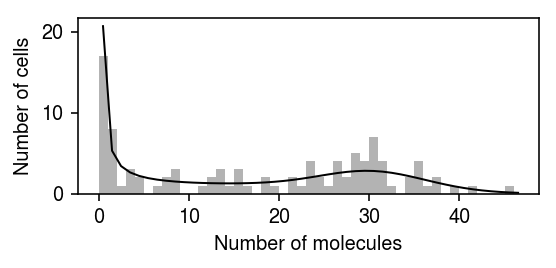
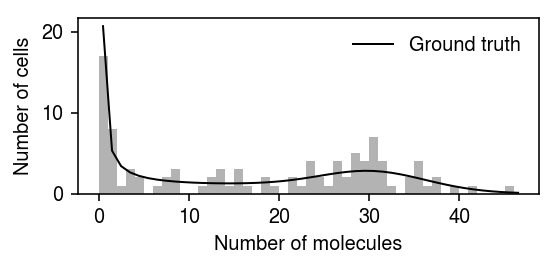
Look at identifiability problem

Changed region(s): [[0.7338, 0.1194, 0.9478, 0.209], [0.6421, 0.1493, 0.7032, 0.1791]]

diff --git a/docs/pois-beta.html b/docs/pois-beta.html
@@ -1,7 +1,7 @@
 <!DOCTYPE html>
 <html lang="en">
 <head>
-<!-- 2020-02-17 Mon 11:53 -->
+<!-- 2020-02-18 Tue 22:02 -->
 <meta charset="utf-8">
 <meta name="viewport" content="width=device-width, initial-scale=1">
 <title>Poisson-Beta model</title>
@@ -265,7 +265,7 @@ for the JavaScript code in this tag.
 <li><a href="#mle">Maximum likelihood estimation</a></li>
 <li><a href="#mcmc">Slice-within-Gibbs sampling</a></li>
 <li><a href="#vi">Variational inference</a></li>
-<li><a href="#org5ff99fe">Simulation</a></li>
+<li><a href="#org0b6fde9">Simulation</a></li>
 </ul>
 </li>
 <li><a href="#results">Results</a>
@@ -275,7 +275,8 @@ for the JavaScript code in this tag.
 <li><a href="#org2a8e2d9">Impact of size factors</a></li>
 <li><a href="#org1a579b3">Log likelihood surface</a></li>
 <li><a href="#org2d20171">Impact of initialization</a></li>
-<li><a href="#orgfb20ae8">Slice-within-Gibbs sampling</a></li>
+<li><a href="#org5f1048c">Slice-within-Gibbs sampling</a></li>
+<li><a href="#orge851dc0">Identifiability</a></li>
 </ul>
 </li>
 </ul>
@@ -353,6 +354,7 @@ initialization on the estimates.
 <span class="org-keyword">import</span> numpy <span class="org-keyword">as</span> np
 <span class="org-keyword">import</span> pandas <span class="org-keyword">as</span> pd
 <span class="org-keyword">import</span> poisbeta
+<span class="org-keyword">import</span> scmodes
 <span class="org-keyword">import</span> scipy.optimize <span class="org-keyword">as</span> so
 <span class="org-keyword">import</span> scipy.special <span class="org-keyword">as</span> sp
 <span class="org-keyword">import</span> scipy.stats <span class="org-keyword">as</span> st
@@ -483,8 +485,8 @@ the marginal likelihood.
 </div>
 </div>
 
-<div id="outline-container-org860fe85" class="outline-3">
-<h3 id="mcmc"><a id="org860fe85"></a>Slice-within-Gibbs sampling</h3>
+<div id="outline-container-org0ed0716" class="outline-3">
+<h3 id="mcmc"><a id="org0ed0716"></a>Slice-within-Gibbs sampling</h3>
 <div class="outline-text-3" id="text-mcmc">
 <p>
 Kim &amp; Marioni 2013 add priors
@@ -738,9 +740,9 @@ update \(\kon, \koff\).
 </div>
 </div>
 
-<div id="outline-container-org5ff99fe" class="outline-3">
-<h3 id="org5ff99fe">Simulation</h3>
-<div class="outline-text-3" id="text-org5ff99fe">
+<div id="outline-container-org0b6fde9" class="outline-3">
+<h3 id="org0b6fde9">Simulation</h3>
+<div class="outline-text-3" id="text-org0b6fde9">
 <p>
 Draw data from the basic model.
 </p>
@@ -794,8 +796,8 @@ Draw data from a model with size factors.
 <h2 id="results"><a id="org8f429f7"></a>Results</h2>
 <div class="outline-text-2" id="text-results">
 </div>
-<div id="outline-container-orged64f38" class="outline-3">
-<h3 id="simulation"><a id="orged64f38"></a>Simulation</h3>
+<div id="outline-container-org2769b38" class="outline-3">
+<h3 id="simulation"><a id="org2769b38"></a>Simulation</h3>
 <div class="outline-text-3" id="text-simulation">
 <p>
 Make sure the implementations work on one example.
@@ -1247,9 +1249,9 @@ plt.tight_layout()
 </div>
 </div>
 </div>
-<div id="outline-container-orgfb20ae8" class="outline-3">
-<h3 id="orgfb20ae8">Slice-within-Gibbs sampling</h3>
-<div class="outline-text-3" id="text-orgfb20ae8">
+<div id="outline-container-org5f1048c" class="outline-3">
+<h3 id="org5f1048c">Slice-within-Gibbs sampling</h3>
+<div class="outline-text-3" id="text-org5f1048c">
 <p>
 First, try to sample from a standard Gaussian using slice sampling.
 </p>
@@ -1285,8 +1287,7 @@ plt.tight_layout()
 </div>
 
 <p>
-Now, use slice-within-Gibbs to sample from the posterior \(p(\kr, \kon,
-   \koff \mid \cdot)\).
+Now, simulate a simple data set.
 </p>
 
 <div class="org-src-container">
@@ -1297,10 +1298,12 @@ Now, use slice-within-Gibbs to sample from the posterior \(p(\kr, \kon,
 
 <div class="org-src-container">
 <pre class="src src-ipython"><span class="org-variable-name">grid</span> = np.arange(x.<span class="org-builtin">max</span>() + 1)
+<span class="org-variable-name">n</span> = x.shape[0] * np.array([poisbeta.mle.poisson_beta_pmf(log_theta, i, 1) <span class="org-keyword">for</span> i <span class="org-keyword">in</span> grid]).ravel()
 plt.clf()
 plt.gcf().set_size_inches(4, 2)
 plt.hist(x, bins=grid, color=<span class="org-string">'0.7'</span>)
-plt.plot(grid + 0.5, x.shape[0] * np.array([poisbeta.mle.poisson_beta_pmf(log_theta, i, 1) <span class="org-keyword">for</span> i <span class="org-keyword">in</span> grid]).ravel(), lw=1, c=<span class="org-string">'k'</span>)
+plt.plot(grid + 0.5, n, lw=1, c=<span class="org-string">'k'</span>, label=<span class="org-string">'Ground truth'</span>)
+plt.legend(frameon=<span class="org-constant">False</span>)
 plt.xlabel(<span class="org-string">'Number of molecules'</span>)
 plt.ylabel(<span class="org-string">'Number of cells'</span>)
 plt.tight_layout()
@@ -1312,6 +1315,11 @@ plt.tight_layout()
 <p><img src="figure/pois-beta.org/slice-sample-ex.png" alt="slice-sample-ex.png">
 </p>
 </div>
+
+<p>
+Use slice-within-Gibbs to sample from the posterior \(p(\kr, \kon, \koff
+   \mid x_1, \ldots, x_n)\).
+</p>
 
 <div class="org-src-container">
 <pre class="src src-ipython"><span class="org-comment-delimiter"># </span><span class="org-comment">Important: Kim &amp; Marioni 2013 use shape/scale parametrization, but write</span>
@@ -1382,11 +1390,148 @@ fig.tight_layout()
 </div>
 </div>
 </div>
+
+<div id="outline-container-orge851dc0" class="outline-3">
+<h3 id="orge851dc0">Identifiability</h3>
+<div class="outline-text-3" id="text-orge851dc0">
+<p>
+Kim and Marioni discuss an identifiability problem with the model. Simulate
+an example data set. Estimate the MLE, and draw samples from the posterior
+of the Poisson-Beta model. Then, fit a Gamma assumption and a unimodal
+assumption on expression variation.
+</p>
+
+<div class="org-src-container">
+<pre class="src src-ipython">x, *<span class="org-variable-name">theta</span> = simulate_pois_beta(n=100, kr=32, kon=1.5, koff=1.5, seed=0)
+
+<span class="org-variable-name">samples</span>, <span class="org-variable-name">trace</span> = poisbeta.mcmc.fit_poisson_beta_mcmc(
+  x,
+  n_samples=1000,
+  ar=1,
+  br=1/x.<span class="org-builtin">max</span>(),
+  aon=1,
+  bon=1/100,
+  aoff=1,
+  boff=1/100,
+  trace=<span class="org-constant">True</span>)
+
+<span class="org-variable-name">ebpm_beta_res</span> = poisbeta.fit_poisson_beta_mle(x)
+<span class="org-variable-name">ebpm_gamma_res</span> = scmodes.ebpm.ebpm_gamma(x, 1)
+<span class="org-variable-name">ebpm_unimodal_res</span> = scmodes.ebpm.ebpm_unimodal(x, 1)
+</pre>
+</div>
+
+<p>
+Report the log likelihoods achieved by the point estimates.
+</p>
+
+<div class="org-src-container">
+<pre class="src src-ipython">pd.Series({
+  <span class="org-string">'beta'</span>: poisbeta.mle.poisson_beta_logpmf(thetahat, x, 1).<span class="org-builtin">sum</span>(),
+  <span class="org-string">'gamma'</span>: ebpm_gamma_res[-1],
+  <span class="org-string">'unimodal'</span>: np.array(ebpm_unimodal_res.rx2(<span class="org-string">'loglik'</span>))[0],
+})
+</pre>
+</div>
+
+<pre class="example">
+beta       -371.722956
+gamma      -363.271122
+unimodal   -359.050396
+dtype: float64
+</pre>
+
+<p>
+Plot the MCMC trace.
+</p>
+
+<div class="org-src-container">
+<pre class="src src-ipython">plt.clf()
+plt.gcf().set_size_inches(4, 2)
+plt.plot(np.arange(samples.shape[0]), trace, lw=1, c=<span class="org-string">'k'</span>)
+plt.xlabel(<span class="org-string">'Sample'</span>)
+plt.ylabel(<span class="org-string">'Log joint probability'</span>)
+plt.tight_layout()
+</pre>
+</div>
+
+
+<div class="figure">
+<p><img src="figure/pois-beta.org/slice-sample-ex2-log-joint.png" alt="slice-sample-ex2-log-joint.png">
+</p>
+</div>
+
+<p>
+Plot the estimated posteriors and the point estimates.
+</p>
+
+<div class="org-src-container">
+<pre class="src src-ipython">plt.clf()
+<span class="org-variable-name">fig</span>, <span class="org-variable-name">ax</span> = plt.subplots(1, 3)
+fig.set_size_inches(7, 2)
+<span class="org-keyword">for</span> a, s, t, h, k <span class="org-keyword">in</span> <span class="org-builtin">zip</span>(ax, samples.T, theta, np.exp(ebpm_beta_res), [<span class="org-string">'$k_r$'</span>, <span class="org-string">'$k_{\mathrm{on}}$'</span>, <span class="org-string">'$k_{\mathrm{off}}$'</span>]):
+  a.hist(s[-800:], bins=20, density=<span class="org-constant">True</span>, color=<span class="org-string">'0.7'</span>)
+  a.axvline(x=t, c=<span class="org-string">'k'</span>, lw=1, label=<span class="org-string">'Ground truth'</span>)
+  a.axvline(x=h, c=<span class="org-string">'r'</span>, lw=1, label=<span class="org-string">'Moment'</span>)
+  a.set_xlabel(k)
+ax[0].set_ylabel(<span class="org-string">'Posterior density'</span>)
+ax[-1].legend(frameon=<span class="org-constant">False</span>, loc=<span class="org-string">'center left'</span>, bbox_to_anchor=(1, .5))
+fig.tight_layout()
+</pre>
+</div>
+
+
+<div class="figure">
+<p><img src="figure/pois-beta.org/slice-sample-ex2-post.png" alt="slice-sample-ex2-post.png">
+</p>
+</div>
+
+<p>
+Plot the simulated data and estimated distributions.
+</p>
+
+<div class="org-src-container">
+<pre class="src src-ipython"><span class="org-variable-name">cm</span> = plt.get_cmap(<span class="org-string">'Dark2'</span>)
+<span class="org-variable-name">grid</span> = np.arange(x.<span class="org-builtin">max</span>() + 1)
+plt.clf()
+plt.gcf().set_size_inches(5, 3)
+plt.hist(x, bins=grid, density=<span class="org-constant">True</span>, color=<span class="org-string">'0.7'</span>)
+
+plt.plot(grid + 0.5, np.array([poisbeta.mle.poisson_beta_pmf(np.log(np.array(theta)), i, 1) <span class="org-keyword">for</span> i <span class="org-keyword">in</span> grid]).ravel(), lw=1, c=cm(0), label=<span class="org-string">'Ground truth'</span>)
+
+plt.plot(grid + 0.5, np.array([poisbeta.mle.poisson_beta_pmf(ebpm_beta_res, i, 1) <span class="org-keyword">for</span> i <span class="org-keyword">in</span> grid]).ravel(), lw=1, c=cm(1), label=<span class="org-string">'Beta (MLE)'</span>)
+
+<span class="org-variable-name">pm</span> = np.log(samples[-800:]).mean(axis=0)
+plt.plot(grid + 0.5, np.array([poisbeta.mle.poisson_beta_pmf(pm, i, 1) <span class="org-keyword">for</span> i <span class="org-keyword">in</span> grid]).ravel(), lw=1, c=cm(2), label=<span class="org-string">'Beta (PM)'</span>)
+
+plt.plot(grid + 0.5, st.nbinom(n=np.exp(ebpm_gamma_res[1]), p=1 / (1 + np.exp(ebpm_gamma_res[0] - ebpm_gamma_res[1]))).pmf(grid), lw=1, c=cm(3), label=<span class="org-string">'Gamma'</span>)
+
+<span class="org-variable-name">g</span> = np.array(ebpm_unimodal_res.rx2(<span class="org-string">'fitted_g'</span>))
+<span class="org-variable-name">a</span> = np.fmin(g[1], g[2])
+<span class="org-variable-name">b</span> = np.fmax(g[1], g[2])
+<span class="org-variable-name">comp_dens_conv</span> = np.array([((st.gamma(a=k + 1, scale=1).cdf(b.reshape(1, -1)) - st.gamma(a=k + 1, scale=1).cdf(a.reshape(1, -1))) / (b - a)).mean(axis=0) <span class="org-keyword">for</span> k <span class="org-keyword">in</span> grid])
+<span class="org-variable-name">comp_dens_conv</span>[:,0] = st.poisson(mu=b[0]).pmf(x).mean(axis=0)
+plt.plot(grid + 0.5, comp_dens_conv @ g[0], lw=1, c=cm(4), label=<span class="org-string">'Unimodal'</span>)
+
+plt.legend(frameon=<span class="org-constant">False</span>)
+plt.xlabel(<span class="org-string">'Number of molecules'</span>)
+plt.ylabel(<span class="org-string">'Density'</span>)
+plt.tight_layout()
+</pre>
+</div>
+
+
+<div class="figure">
+<p><img src="figure/pois-beta.org/slice-sample-ex2.png" alt="slice-sample-ex2.png">
+</p>
+</div>
+</div>
+</div>
 </div>
 </div>
 <div id="postamble" class="status">
 <p class="author">Author: Abhishek Sarkar</p>
-<p class="date">Created: 2020-02-17 Mon 11:53</p>
+<p class="date">Created: 2020-02-18 Tue 22:02</p>
 <p class="validation"><a href="http://validator.w3.org/check?uri=referer">Validate</a></p>
 </div>
 </body>
